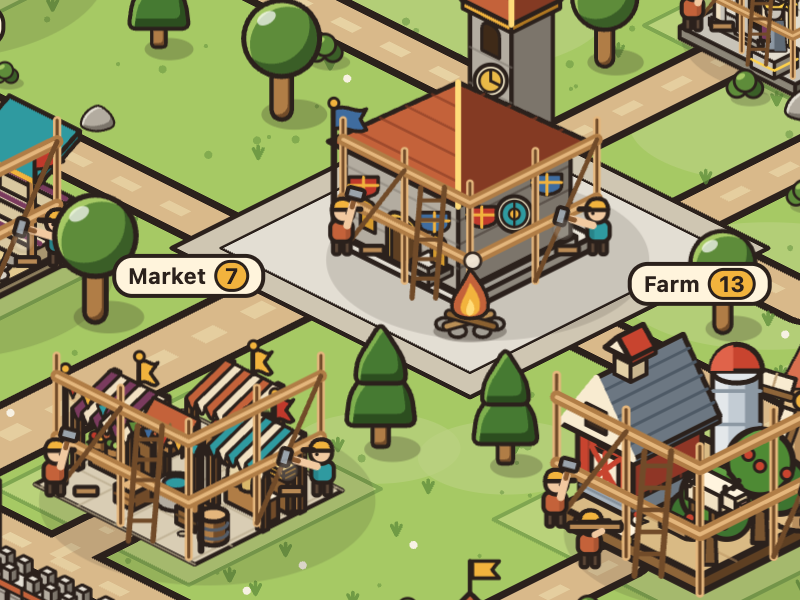
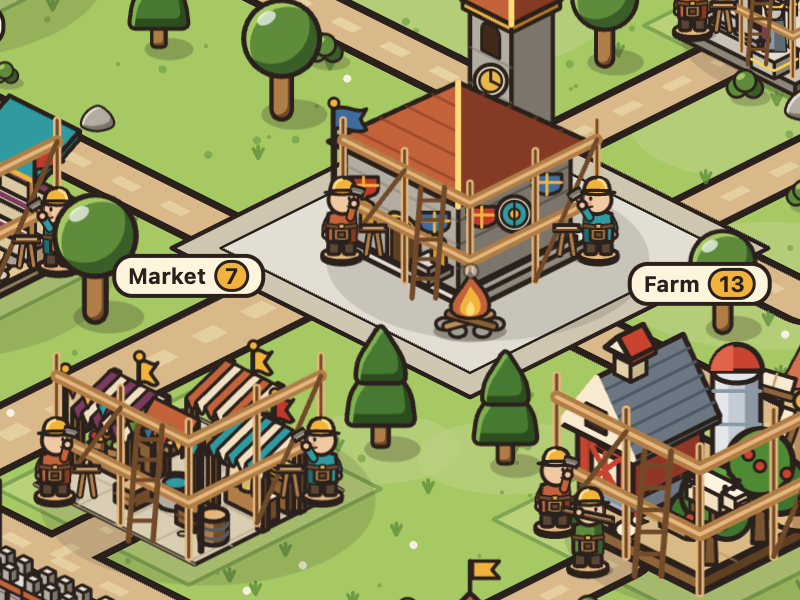
Art: builders redrawn in the unit figure style
Owner 2026-11-06: make the builders match our design. They are now chunky toy pieces like
the unit sprites: round wooden base, big head with a rosy cheek, felt cap in sun yellow,
tunic with a shaded side, leather apron and belt with a gold buckle, thick warm-ink
outlines; each hammers a plank on a little trestle (the carrier has it on his shoulder).
Same size on screen (about 23 units) and the same animations.

diff --git a/apps/web/src/art/workers.tsx b/apps/web/src/art/workers.tsx
@@ -8,51 +8,105 @@ import type { BuildingId } from '@clanfire/engine';
 
 const INK = '#2B211C';
 const SKIN = '#F1C9A0';
-const CAP = '#F2B33D';
-const TUNICS = ['#C4623A', '#2F9AA0', '#C4623A'] as const;
+const SKIN_DARK = '#D9A57A';
+const CHEEK = '#E8907A';
+/** Builder's felt cap: light, mid and shade (sun yellow, like the units' gold trims). */
+const CAP = { light: '#FFE08F', mid: '#F2B33D', dark: '#B9791F' };
+const WOOD = { light: '#E4B67C', mid: '#B07D46', dark: '#714B29' };
+const BOOT = '#5B4636';
+/** Tunic colours from the village palette (terracotta, teal), with their shade. */
+const TUNICS = [
+  { mid: '#C4623A', dark: '#843A23' },
+  { mid: '#2F9AA0', dark: '#1F6B70' },
+  { mid: '#5E8C3A', dark: '#3A5E27' },
+] as const;
+type Tunic = (typeof TUNICS)[number];
 
 /**
- * One builder, feet at (0, 0), about 15 units tall, facing right (+x); mirror with scale(-1, 1) to face left.
- * The arm with the hammer swings around the shoulder; at each strike a dust puff and two sparks pop at the plank.
+ * One builder, drawn like our unit figures (design/sprites/units): a chunky toy piece on a round wooden base, big head,
+ * felt cap, rosy cheek, thick warm-ink outline and flat 3-tone shading lit from the top left. Feet at (0, 0), about 46 units
+ * tall in these units (the caller scales it down), facing right (+x); mirror with scale(-1, 1) to face left. The hammer arm
+ * swings around the shoulder (.vv-wk-arm, -75deg up to +24deg); at each strike a dust puff and sparks pop on the plank
+ * lying across a little trestle in front of him. The carrier has a plank on his shoulder instead.
  */
-function Worker({ tunic, dur, delay, carry }: { tunic: string; dur: number; delay: number; carry?: boolean }) {
+function Worker({ tunic, dur, delay, carry }: { tunic: Tunic; dur: number; delay: number; carry?: boolean }) {
   const t = { '--wd': `${dur}s`, animationDelay: `${delay}s` } as CSSProperties;
   return (
-    <g strokeLinejoin="round" strokeLinecap="round" strokeWidth={1.2} stroke={INK}>
-      {/* the plank being nailed (not for the one carrying a plank) */}
-      {!carry && <rect x={5.5} y={-2.4} width={6.5} height={2.4} rx={0.6} fill="#B98A55" />}
-      {/* legs */}
-      <rect x={-2.4} y={-4.2} width={2} height={4.2} rx={0.8} fill="#5B4636" />
-      <rect x={0.6} y={-4.2} width={2} height={4.2} rx={0.8} fill="#5B4636" />
-      {/* tunic: light on the left, a darker band on the right (lit from the top left) */}
-      <rect x={-3.2} y={-9.6} width={6.4} height={6} rx={2} fill={tunic} />
-      <path d="M1.2 -9.4 H1.6 Q3.2 -9.4 3.2 -7.6 V-5.6 Q3.2 -3.8 1.6 -3.8 H1.2 Z" fill="#000" fillOpacity={0.14} stroke="none" />
-      {/* head and yellow cap with a little peak */}
-      <circle cx={0.4} cy={-12} r={3.1} fill={SKIN} />
-      <path d="M-2.8 -12.6 Q-2.6 -16 0.6 -15.8 Q3.4 -15.6 3.5 -12.6 Z" fill={CAP} />
-      <path d="M2.6 -12.8 H5.4" fill="none" strokeWidth={1.6} />
-      <circle cx={1.6} cy={-11.6} r={0.5} fill={INK} stroke="none" />
+    <g strokeLinejoin="round" strokeLinecap="round" strokeWidth={2.2} stroke={INK}>
+      {/* contact shadow and the round wooden toy base */}
+      <ellipse cx={1.5} cy={2.2} rx={12.5} ry={4.2} fill={INK} opacity={0.25} stroke="none" />
+      <path d="M-11 0 V2 A11 3.8 0 0 0 11 2 V0 Z" fill={WOOD.mid} />
+      <ellipse cx={0} cy={0} rx={11} ry={3.8} fill={WOOD.light} />
+      {/* the trestle and the plank he is nailing (strike point about 18, -15) */}
+      {!carry && (
+        <g>
+          <path d="M14 0 L16 -13 M22 0 L20 -13" fill="none" stroke={INK} strokeWidth={4.2} />
+          <path d="M14 0 L16 -13 M22 0 L20 -13" fill="none" stroke={WOOD.mid} strokeWidth={1.8} />
+          <path d="M11 -16.6 H25 V-13 H11 Z" fill={WOOD.light} />
+          <path d="M11 -13.9 H25" fill="none" stroke={WOOD.dark} strokeWidth={1} />
+        </g>
+      )}
+      {/* boots */}
+      <path d="M-6.2 -7 H-1 V-1.6 Q-1 0 -2.6 0 H-6.2 Q-7.6 0 -7.6 -1.4 V-5.6 Q-7.6 -7 -6.2 -7 Z" fill={BOOT} />
+      <path d="M1 -7 H6.2 Q7.6 -7 7.6 -5.6 V-1.4 Q7.6 0 6.2 0 H2.6 Q1 0 1 -1.6 Z" fill={BOOT} />
+      {/* back arm (hanging, or holding the plank on the shoulder) */}
       {carry ? (
-        // carrying a plank on the shoulder
+        <path d="M-6 -21 Q-9 -26 -5 -30" fill="none" stroke={INK} strokeWidth={5.6} />
+      ) : (
+        <path d="M-6 -21 Q-9.5 -16 -8.5 -12" fill="none" stroke={INK} strokeWidth={5.6} />
+      )}
+      {carry ? (
+        <path d="M-6 -21 Q-9 -26 -5 -30" fill="none" stroke={tunic.dark} strokeWidth={3.2} />
+      ) : (
+        <path d="M-6 -21 Q-9.5 -16 -8.5 -12" fill="none" stroke={tunic.dark} strokeWidth={3.2} />
+      )}
+      {!carry && <circle cx={-8.4} cy={-11.2} r={2.3} fill={SKIN} strokeWidth={1.8} />}
+      {/* tunic: rounded body, shade on the right, leather apron with a pocket, belt with a gold buckle */}
+      <path d="M-7.5 -23 Q-8.6 -15 -8 -7.4 Q0 -5.4 8 -7.4 Q8.6 -15 7.5 -23 Q0 -26 -7.5 -23 Z" fill={tunic.mid} />
+      <path d="M3.6 -24.4 Q7.4 -23.6 7.5 -23 Q8.6 -15 8 -7.4 Q5.6 -6.8 3.6 -6.6 Z" fill={tunic.dark} stroke="none" />
+      <path d="M-4.6 -16 H4.6 V-8 Q0 -6.6 -4.6 -8 Z" fill={WOOD.mid} strokeWidth={1.8} />
+      <path d="M-2 -12.6 H2 V-9.6 H-2 Z" fill={WOOD.dark} strokeWidth={1.2} />
+      <path d="M-8 -16.2 Q0 -14.6 8 -16.2" fill="none" stroke={INK} strokeWidth={3.4} />
+      <path d="M-8 -16.2 Q0 -14.6 8 -16.2" fill="none" stroke={WOOD.dark} strokeWidth={1.6} />
+      <rect x={-1.6} y={-17.2} width={3.2} height={2.6} rx={0.6} fill={CAP.mid} strokeWidth={1} />
+      {/* head: big round toy head, cheek, eye with a brow, small smile */}
+      <circle cx={0.8} cy={-31} r={8.2} fill={SKIN} />
+      <path d="M6.6 -36.6 A8.2 8.2 0 0 1 6.4 -25.6 A9 9 0 0 0 6.6 -36.6 Z" fill={SKIN_DARK} stroke="none" />
+      <circle cx={5.6} cy={-28.4} r={1.7} fill={CHEEK} opacity={0.75} stroke="none" />
+      <ellipse cx={4.4} cy={-31.6} rx={0.9} ry={1.3} fill={INK} stroke="none" />
+      <path d="M2.8 -34.2 L5.8 -33.6" fill="none" strokeWidth={1.2} />
+      <path d="M3.4 -27.2 Q5 -26 6.4 -27.4" fill="none" strokeWidth={1.1} />
+      {/* felt cap: crown with a highlight and a shaded band, wide brim */}
+      <path d="M-6.6 -35.4 Q-6.4 -43.6 1 -43.6 Q8 -43.6 8.2 -35.4 Z" fill={CAP.mid} />
+      <path d="M-4.6 -37 Q-4 -41.8 0 -42.4" fill="none" stroke={CAP.light} strokeWidth={1.6} />
+      <path d="M-6.6 -36.4 H8.2 V-35 H-6.6 Z" fill={CAP.dark} strokeWidth={1.2} />
+      <path d="M-9.4 -35 Q1 -32.4 11.6 -35.4 Q1.4 -37.6 -9.4 -35 Z" fill={CAP.mid} strokeWidth={1.8} />
+      {carry ? (
+        // the plank on his shoulder, held by the back hand
         <g className="vv-wk-carry">
-          <rect x={-6} y={-12.4} width={15} height={2.4} rx={0.8} fill="#B98A55" />
-          <path d="M1.5 -9 L3.5 -10" fill="none" strokeWidth={1.8} stroke={SKIN} />
+          <path d="M-14 -33 L14 -27 L14 -23.6 L-14 -29.6 Z" fill={WOOD.light} />
+          <path d="M-14 -30.8 L14 -24.8" fill="none" stroke={WOOD.dark} strokeWidth={1} />
+          <circle cx={-5} cy={-30} r={2.3} fill={SKIN} strokeWidth={1.8} />
         </g>
       ) : (
         <>
           {/* hammer arm: rotates around the shoulder */}
-          <g transform="translate(1.6 -8.2)">
+          <g transform="translate(5 -21)">
             <g className="vv-wk-arm" style={t}>
-              <path d="M0 0 L6.2 0" fill="none" strokeWidth={2.2} stroke={SKIN} />
-              <path d="M5.4 0 H8.6" fill="none" strokeWidth={1.4} stroke="#8A5A32" />
-              <rect x={7.8} y={-2.4} width={3} height={4.8} rx={0.8} fill="#9AA3AB" />
+              <path d="M0 0 L6.4 0" fill="none" stroke={INK} strokeWidth={5.6} />
+              <path d="M0 0 L6.4 0" fill="none" stroke={tunic.mid} strokeWidth={3.2} />
+              <path d="M8 0 H14.6" fill="none" stroke={INK} strokeWidth={3.6} />
+              <path d="M8 0 H14.6" fill="none" stroke={WOOD.mid} strokeWidth={1.6} />
+              <circle cx={8} cy={0} r={2.4} fill={SKIN} strokeWidth={1.8} />
+              <path d="M13.2 -3.6 H17.6 V3.6 H13.2 Z" fill="#A39E94" strokeWidth={1.8} />
+              <path d="M15.8 -3 V3" fill="none" stroke="#7C756B" strokeWidth={1.4} />
             </g>
           </g>
-          {/* strike: dust puff and sparks, same rhythm as the arm, popping at the plank */}
+          {/* strike: dust puff and sparks, same rhythm as the arm, popping on the plank */}
           <g className="vv-wk-fx" pointerEvents="none" style={t}>
-            <circle className="vv-wk-puff" cx={9} cy={-3} r={2.2} fill="#F7F1E3" style={t} />
-            <circle className="vv-wk-spark" cx={11} cy={-5} r={0.9} fill="#FFDC7A" strokeWidth={0.6} style={t} />
-            <circle className="vv-wk-spark vv-wk-spark-b" cx={7.5} cy={-6} r={0.8} fill="#FFDC7A" strokeWidth={0.6} style={t} />
+            <circle className="vv-wk-puff" cx={19} cy={-17.4} r={3.6} fill="#F7F1E3" style={t} />
+            <circle className="vv-wk-spark" cx={22.5} cy={-20} r={1.4} fill="#FFDC7A" style={t} />
+            <circle className="vv-wk-spark vv-wk-spark-b" cx={16} cy={-21} r={1.2} fill="#FFDC7A" style={t} />
           </g>
         </>
       )}
@@ -70,8 +124,8 @@ export function Workers({ id }: { id: BuildingId }) {
   const sc = PLACEMENT[id].scale;
   const { u, v } = plotUV(id);
   const h = 28 * sc;
-  // About 1.3x the first size (owner 2026-11-06: the builders must be easy to see).
-  const s = id === 'wall' ? 1.05 : 1.2 + 0.2 * Math.min(sc, 1.4);
+  // About 23 scene units tall (owner 2026-11-06: the builders must be easy to see); the figure is drawn 46 units tall.
+  const s = (id === 'wall' ? 1.05 : 1.2 + 0.2 * Math.min(sc, 1.4)) * 0.5;
   const left = iso(u - 0.7 * h, v + 0.85 * h);
   const right = iso(u + 0.85 * h, v - 0.7 * h);
   const big = sc >= 1.3;

diff --git a/apps/web/src/views/village/village.css b/apps/web/src/views/village/village.css
@@ -1998,7 +1998,7 @@ th[scope='row'] {
 .vv-wk-spark {
   stroke: #2b211c;
   stroke-opacity: 0.35;
-  stroke-width: 0.8;
+  stroke-width: 1.6;
   opacity: 0;
   transform-box: fill-box;
   transform-origin: center;
